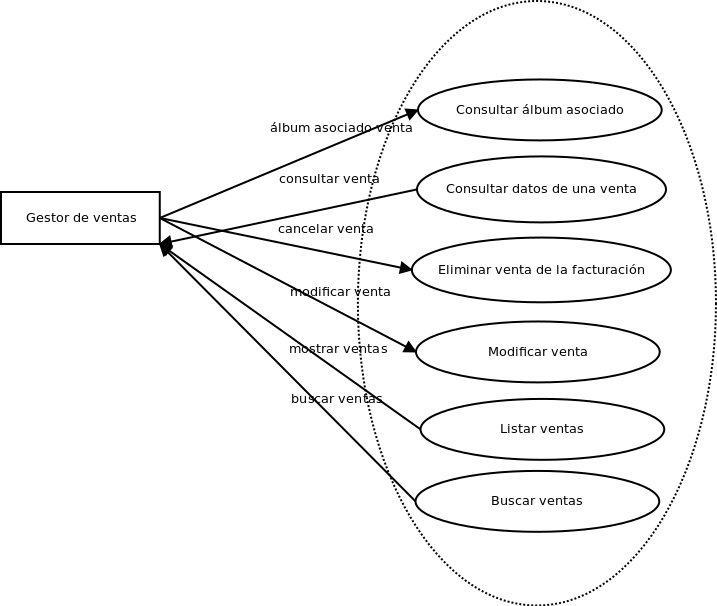
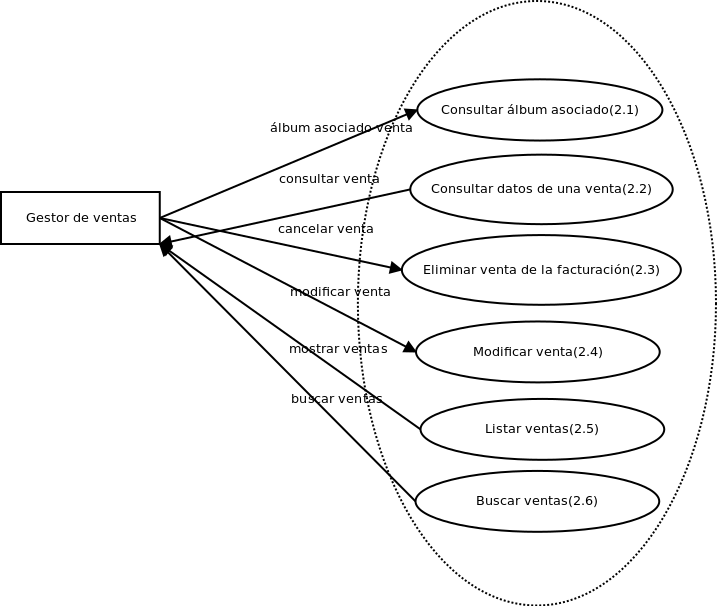
Plano del refinamiento F de primer nivel hecho

diff --git a/doc/memoria.md b/doc/memoria.md
@@ -401,7 +401,9 @@ vez cancelado.
 
 #### Plano de refinamiento F de primer nivel
 
-\imgn{0.9}{./diagramas/plano_ref_F.png}
+\imgn{1.1}{./diagramas/plano_ref_F.png}
+
+#### Esquemas externos del plano de refinamiento F
 
 ## Diagrama conceptual completo
 
